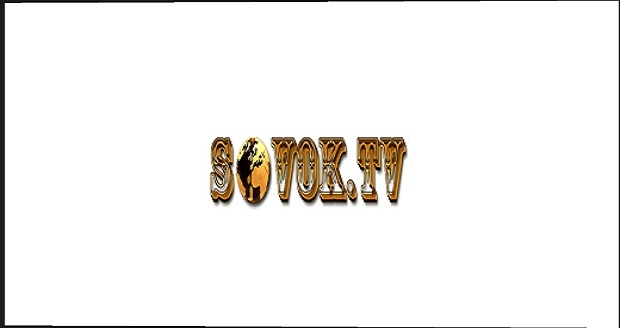
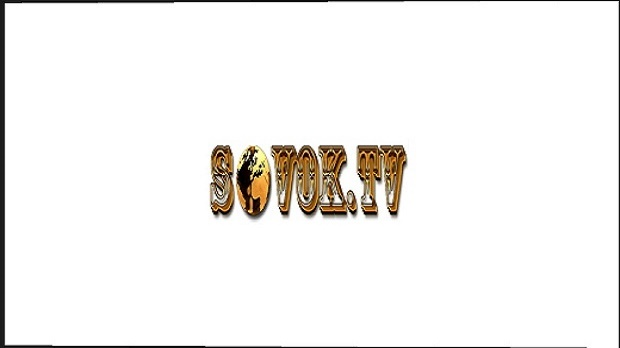
update design

diff --git a/css/main.css b/css/main.css
@@ -106,8 +106,8 @@ hr {
 
 /*modify these values to change the size of the stage or the thumbs */
 .pika-stage{
-    width:650px;
-    height:328px;}
+    width:620px;
+    height:348px;}
 
 .pika-thumbs li{
     width: 100px;
